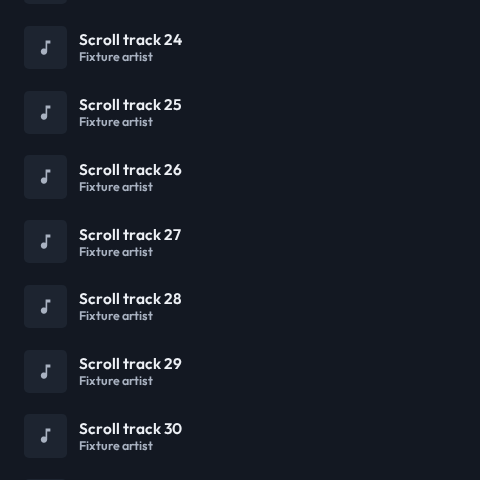
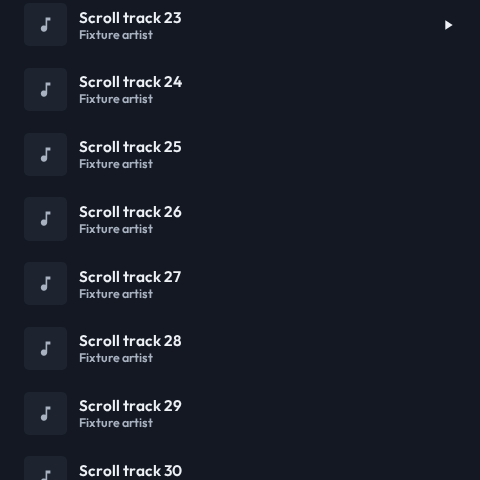
fix: preserve native scrolling on the playing row

diff --git a/e2e/streamFrames.spec.ts b/e2e/streamFrames.spec.ts
@@ -432,3 +432,80 @@ test("a native pull from an edge names its request at once, and the destination 
   ).toBe(true)
   await context.close()
 })
+
+test("a playing queue row resolves to the native scroll target", async ({
+  page,
+  browser,
+}) => {
+  await publish(page, "now_playing", {
+    artist: "Fixture artist",
+    title: "Scroll track 22",
+    album: "Fixture album",
+    isPlaying: true,
+    position: 30,
+    duration: 151,
+    volume: 0.5,
+    isMuted: false,
+  })
+  await publish(page, "queue", {
+    items: Array.from({ length: 46 }, (_unused, index) => ({
+      title: `Scroll track ${index + 1}`,
+      artist: "Fixture artist",
+      isCurrent: index === 21,
+    })),
+  })
+  await publish(page, "view", "Queue")
+  const context = await createWorkerContext(browser)
+  try {
+    const panel = await context.newPage()
+    await panel.goto(`/d/${E2E_STREAM_DEVICE_ID}`)
+    await waitForSettledView(panel, "queue")
+    const playing = panel.getByRole("button", {
+      name: "Playing Scroll track 22",
+    })
+    await expect(playing).toBeDisabled()
+    const point = await playing.evaluate((element) => {
+      const bounds = element.getBoundingClientRect()
+      return {
+        x: bounds.left + bounds.width / 2,
+        y: bounds.top + bounds.height / 2,
+      }
+    })
+    const hit = await panel.evaluate(
+      `(${readWorkerScript("HIT_SCRIPT")})(${JSON.stringify(
+        {
+          ...point,
+          attribute: "data-castkit-target",
+        },
+      )})`,
+    )
+    expect(hit).toBe("scroll:audio-queue")
+    const targets = (await panel.evaluate(
+      `(${readWorkerScript("TARGETS_SCRIPT")})(${JSON.stringify(
+        {
+          attribute: "data-castkit-target",
+          width: 480,
+          height: 480,
+        },
+      )})`,
+    )) as {
+      identity: string
+      x: number
+      y: number
+      width: number
+      height: number
+    }[]
+    const target = targets
+      .filter(
+        (target) =>
+          point.x >= target.x &&
+          point.x < target.x + target.width &&
+          point.y >= target.y &&
+          point.y < target.y + target.height,
+      )
+      .at(-1)
+    expect(target?.identity).toBe(hit)
+  } finally {
+    await context.close()
+  }
+})

diff --git a/packages/slatecast/src/views/Queue.tsx b/packages/slatecast/src/views/Queue.tsx
@@ -152,6 +152,7 @@ export const Queue = ({
           isInteractive &&
           (isNext ||
             (item.isCurrent && nowPlaying.value !== null))
+        const isDisabled = item.isCurrent && isPlaying
         const content = (
           <>
             {item.artworkPath ? (
@@ -202,8 +203,12 @@ export const Queue = ({
                 type="button"
                 class="queue-play"
                 aria-label={`${item.isCurrent ? (isPlaying ? "Playing" : "Resume") : "Play"} ${item.title}`}
-                disabled={item.isCurrent && isPlaying}
-                data-castkit-target={`audio-queue-${index}-${item.title}`}
+                disabled={isDisabled}
+                data-castkit-target={
+                  isDisabled
+                    ? undefined
+                    : `audio-queue-${index}-${item.title}`
+                }
                 onPointerDown={(event) => {
                   rowContact.current = {
                     x: event.clientX,

diff --git a/e2e/mediaControls.spec.ts b/e2e/mediaControls.spec.ts
@@ -506,6 +506,13 @@ test("a touch queue scrolls without returning to time, and its edge still naviga
   await page.setViewportSize({ width: 480, height: 480 })
   await publishFromHomeAssistant({
     page,
+    topic: e2eTopics.nowPlaying,
+    payload: buildNowPlayingPayload({
+      title: "Scroll track 22",
+    }),
+  })
+  await publishFromHomeAssistant({
+    page,
     topic: e2eTopics.queue,
     payload: {
       items: Array.from({ length: 46 }, (_, index) => ({
@@ -538,9 +545,9 @@ test("a touch queue scrolls without returning to time, and its edge still naviga
   })
   await session.send("Input.dispatchTouchEvent", {
     type: "touchStart",
-    touchPoints: [{ x: 240, y: 350 }],
+    touchPoints: [{ x: 240, y: 170 }],
   })
-  await [320, 290, 260, 230, 200, 170].reduce(
+  await [140, 110, 80, 50, 20].reduce(
     async (previous, height) => {
       await previous
       await session.send("Input.dispatchTouchEvent", {

diff --git a/docs/decisions/2026-10-30-scrollable-queues-own-touch-gestures.md b/docs/decisions/2026-10-30-scrollable-queues-own-touch-gestures.md
@@ -33,5 +33,7 @@ only when the current item or available row count changes, not on progress ticks
 The real-server media-controls test scrolls a 46-item touch queue using Chromium
 native touch events, verifies scroll position advances without commands or a view
 change, and then verifies that the bottom edge still navigates. Component tests
-cover passive row fitting and touch track controls. Fixture visual evidence is in
+cover passive row fitting and touch track controls. A real-server native-worker
+hit-test check verifies that a disabled playing row resolves to the scroll list
+in both the acknowledged targets and the live hit test. Fixture visual evidence is in
 docs/images/queue-scroll/.
